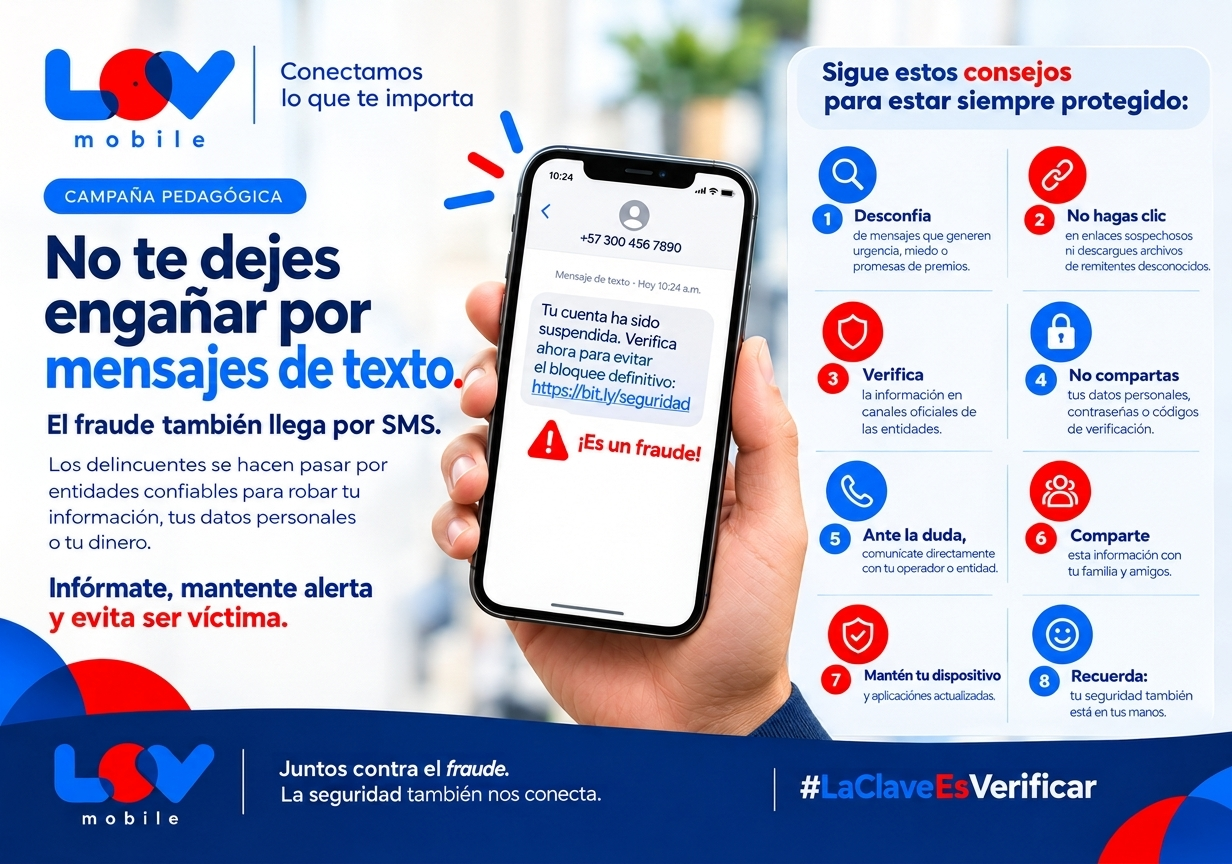
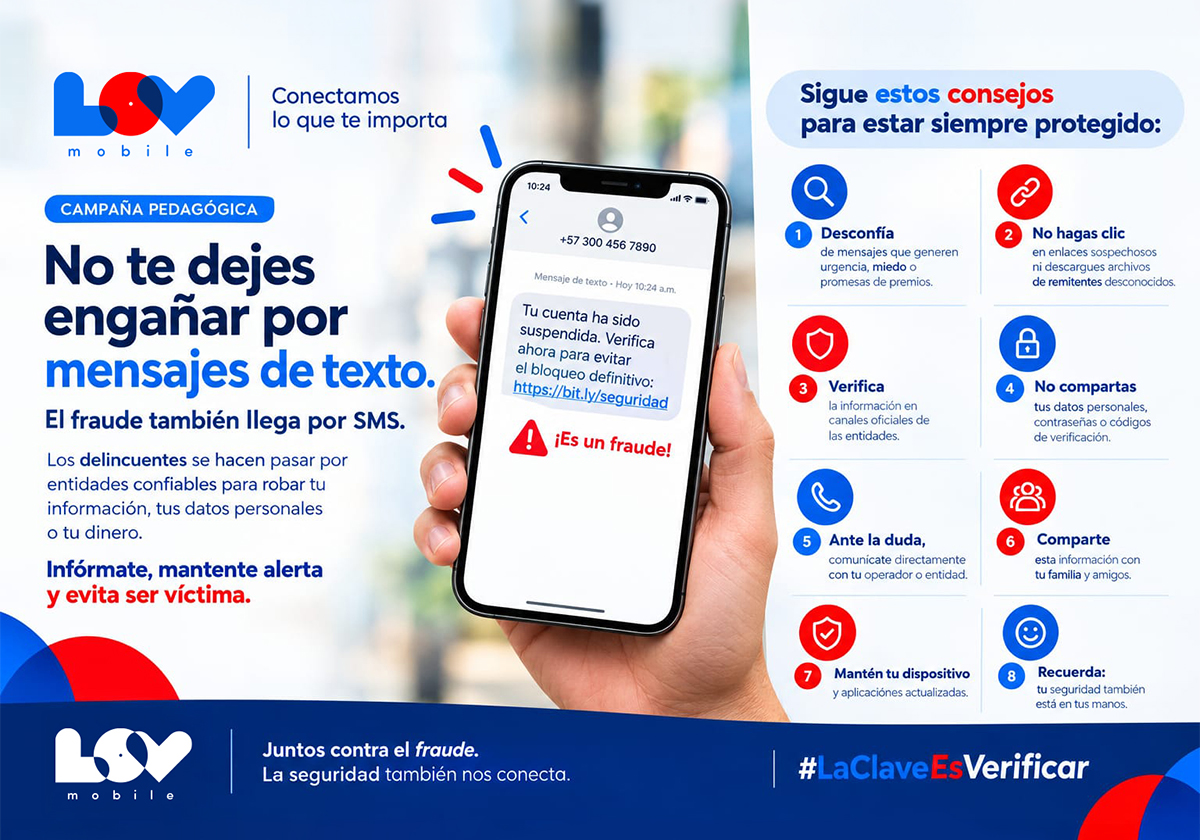
fix: update sim-card promo image and match exact aspect ratio

diff --git a/src/app/features/home/components/home.html b/src/app/features/home/components/home.html
@@ -8,5 +8,5 @@
 <app-intro-portability></app-intro-portability>
 <app-promo title="Conéctate con la mejor cobertura y los mejores planes"
   description="Planes flexibles, excelente servicio y una experiencia sin complicaciones, bajo la misma cobetura de TIGO."
-  image="sim-card.jpg" direction="right" fullImage="1232 / 864">
+  image="sim-card.jpg" direction="right" fullImage="1200 / 840">
 </app-promo>
